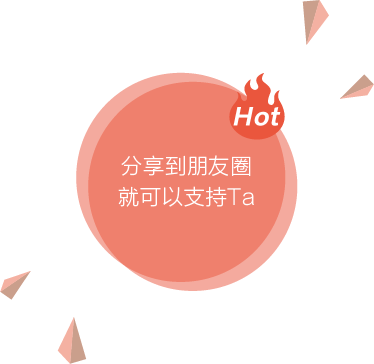
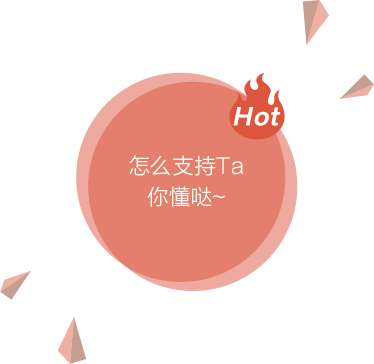
紧急fix 感言 分享、按钮

Changed region(s): [[0.3235, 0.5137, 0.6765, 0.5742], [0.3235, 0.4231, 0.6765, 0.4835]]

diff --git a/src/j3word.html b/src/j3word.html
@@ -65,10 +65,10 @@
 
             <div>
                 <a class="support" href="javascript:void(0)">
-                    <img src="styles/images/jisu3/jword_btn_support.jpg" alt=""/>
+                    <img src="styles/images/jisu3/jword_btn_support.png" alt=""/>
                 </a>
                 <a class="join" href="//huodong.36kr.com/h5/speed3/">
-                    <img src="styles/images/jisu3/jword_btn_join.jpg" alt=""/>
+                    <img src="styles/images/jisu3/jword_btn_join.png" alt=""/>
                 </a>
             </div>
         </div>
